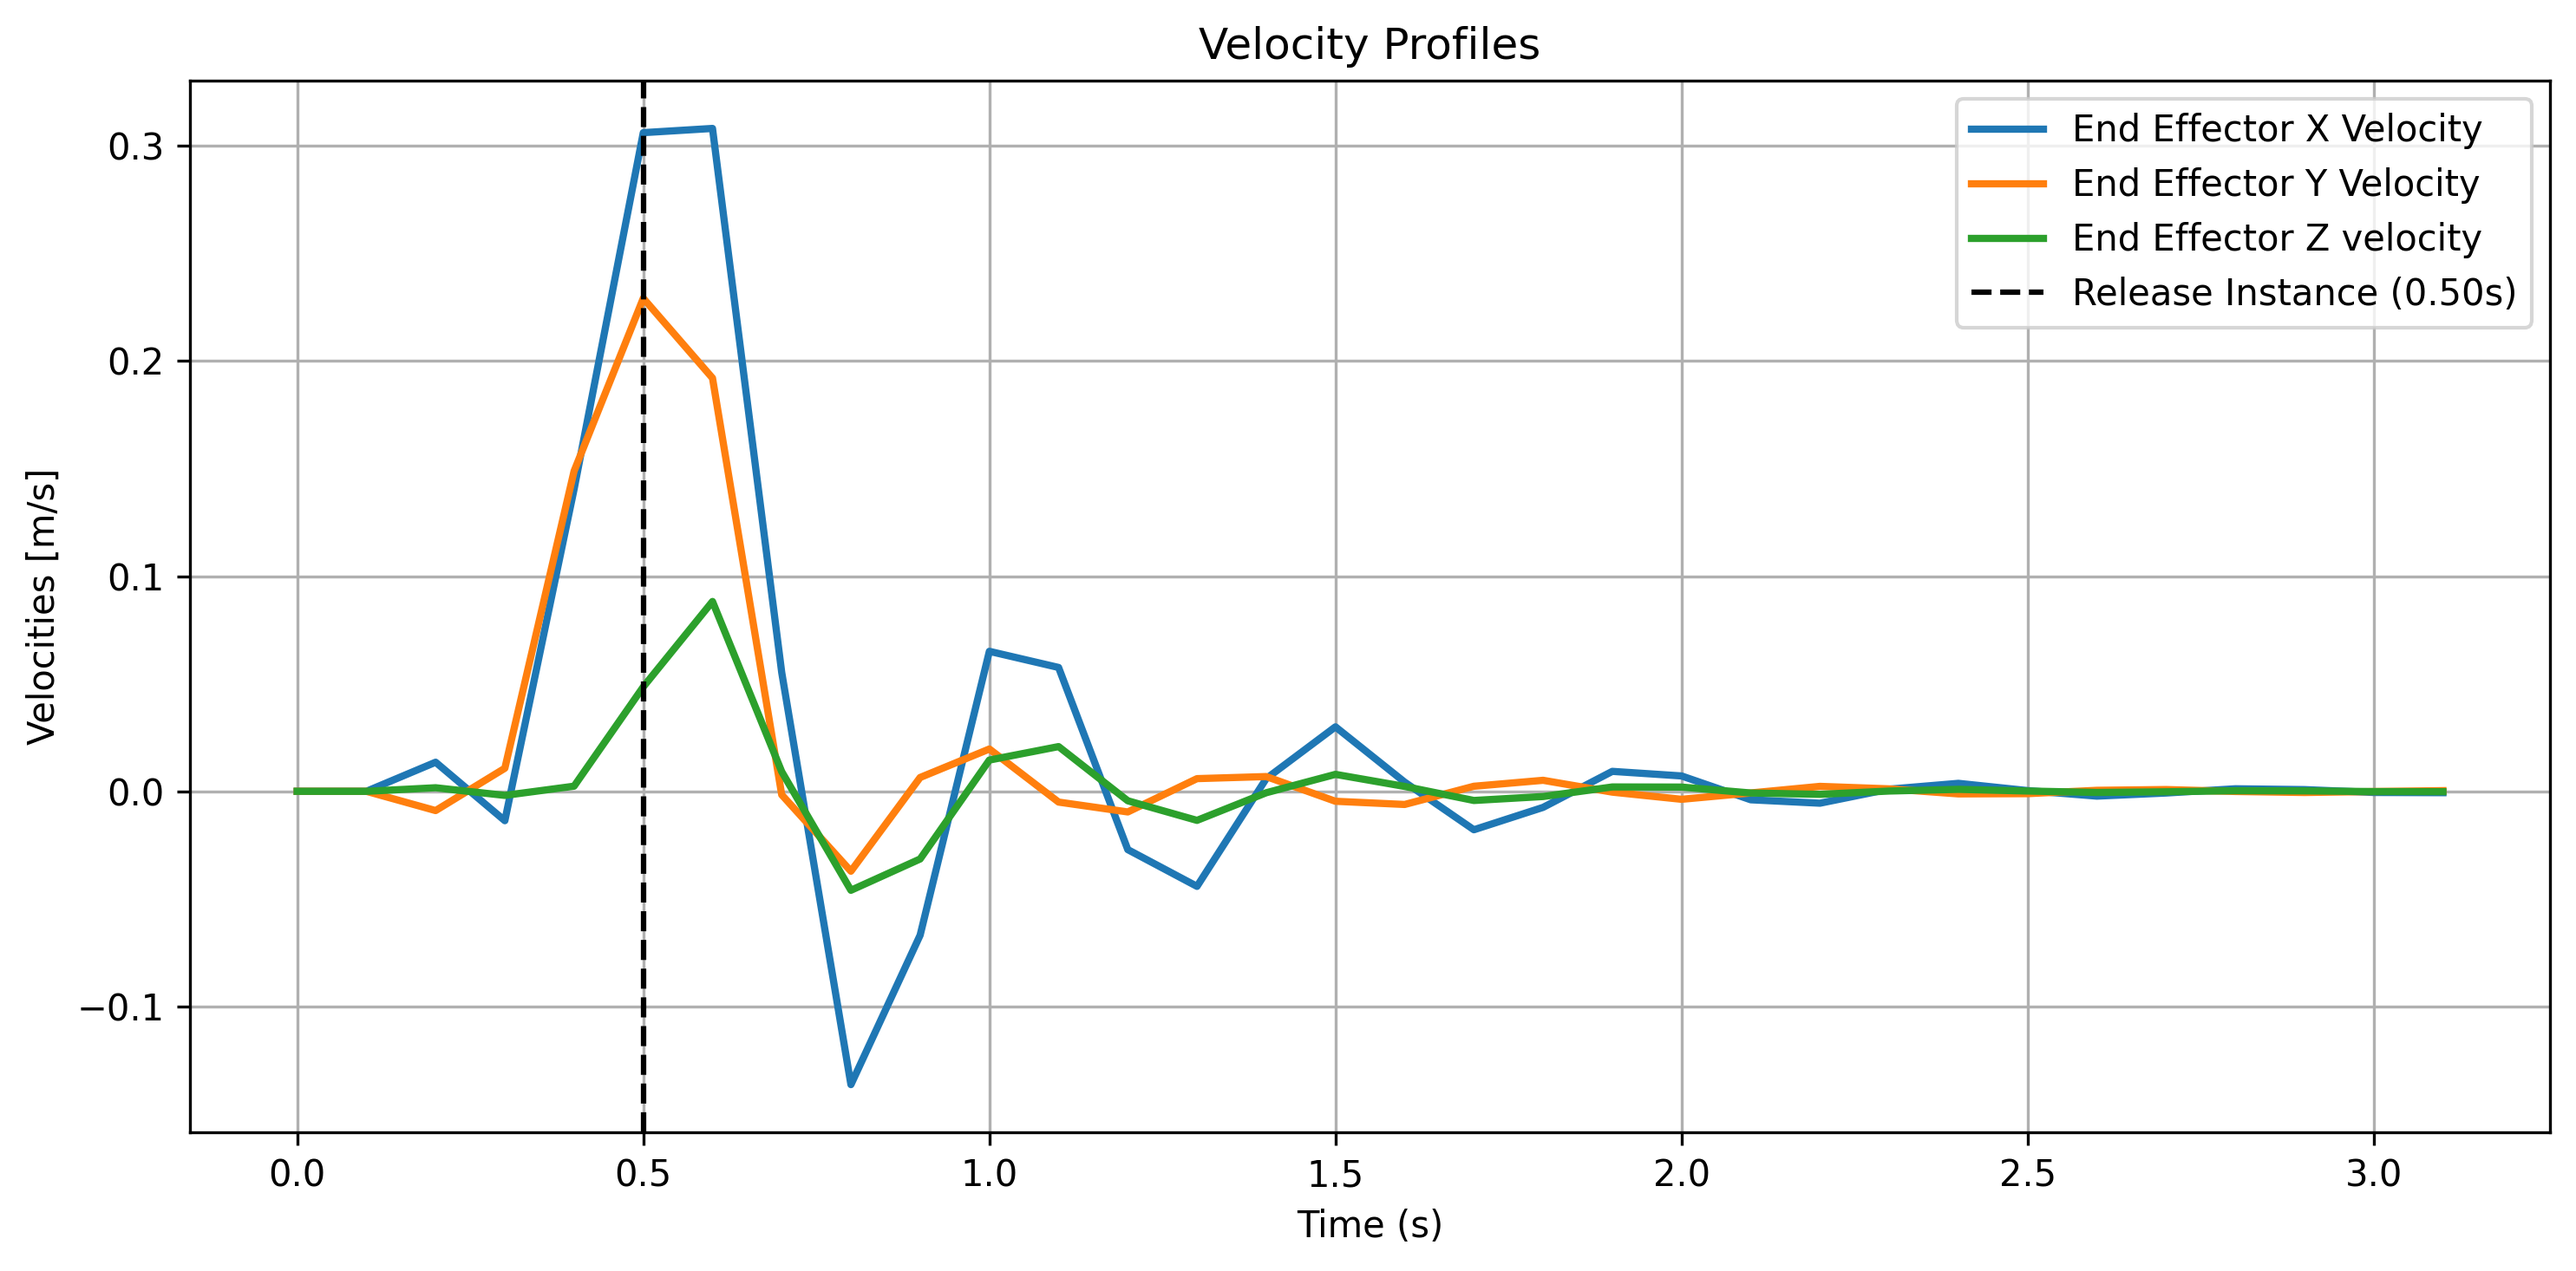
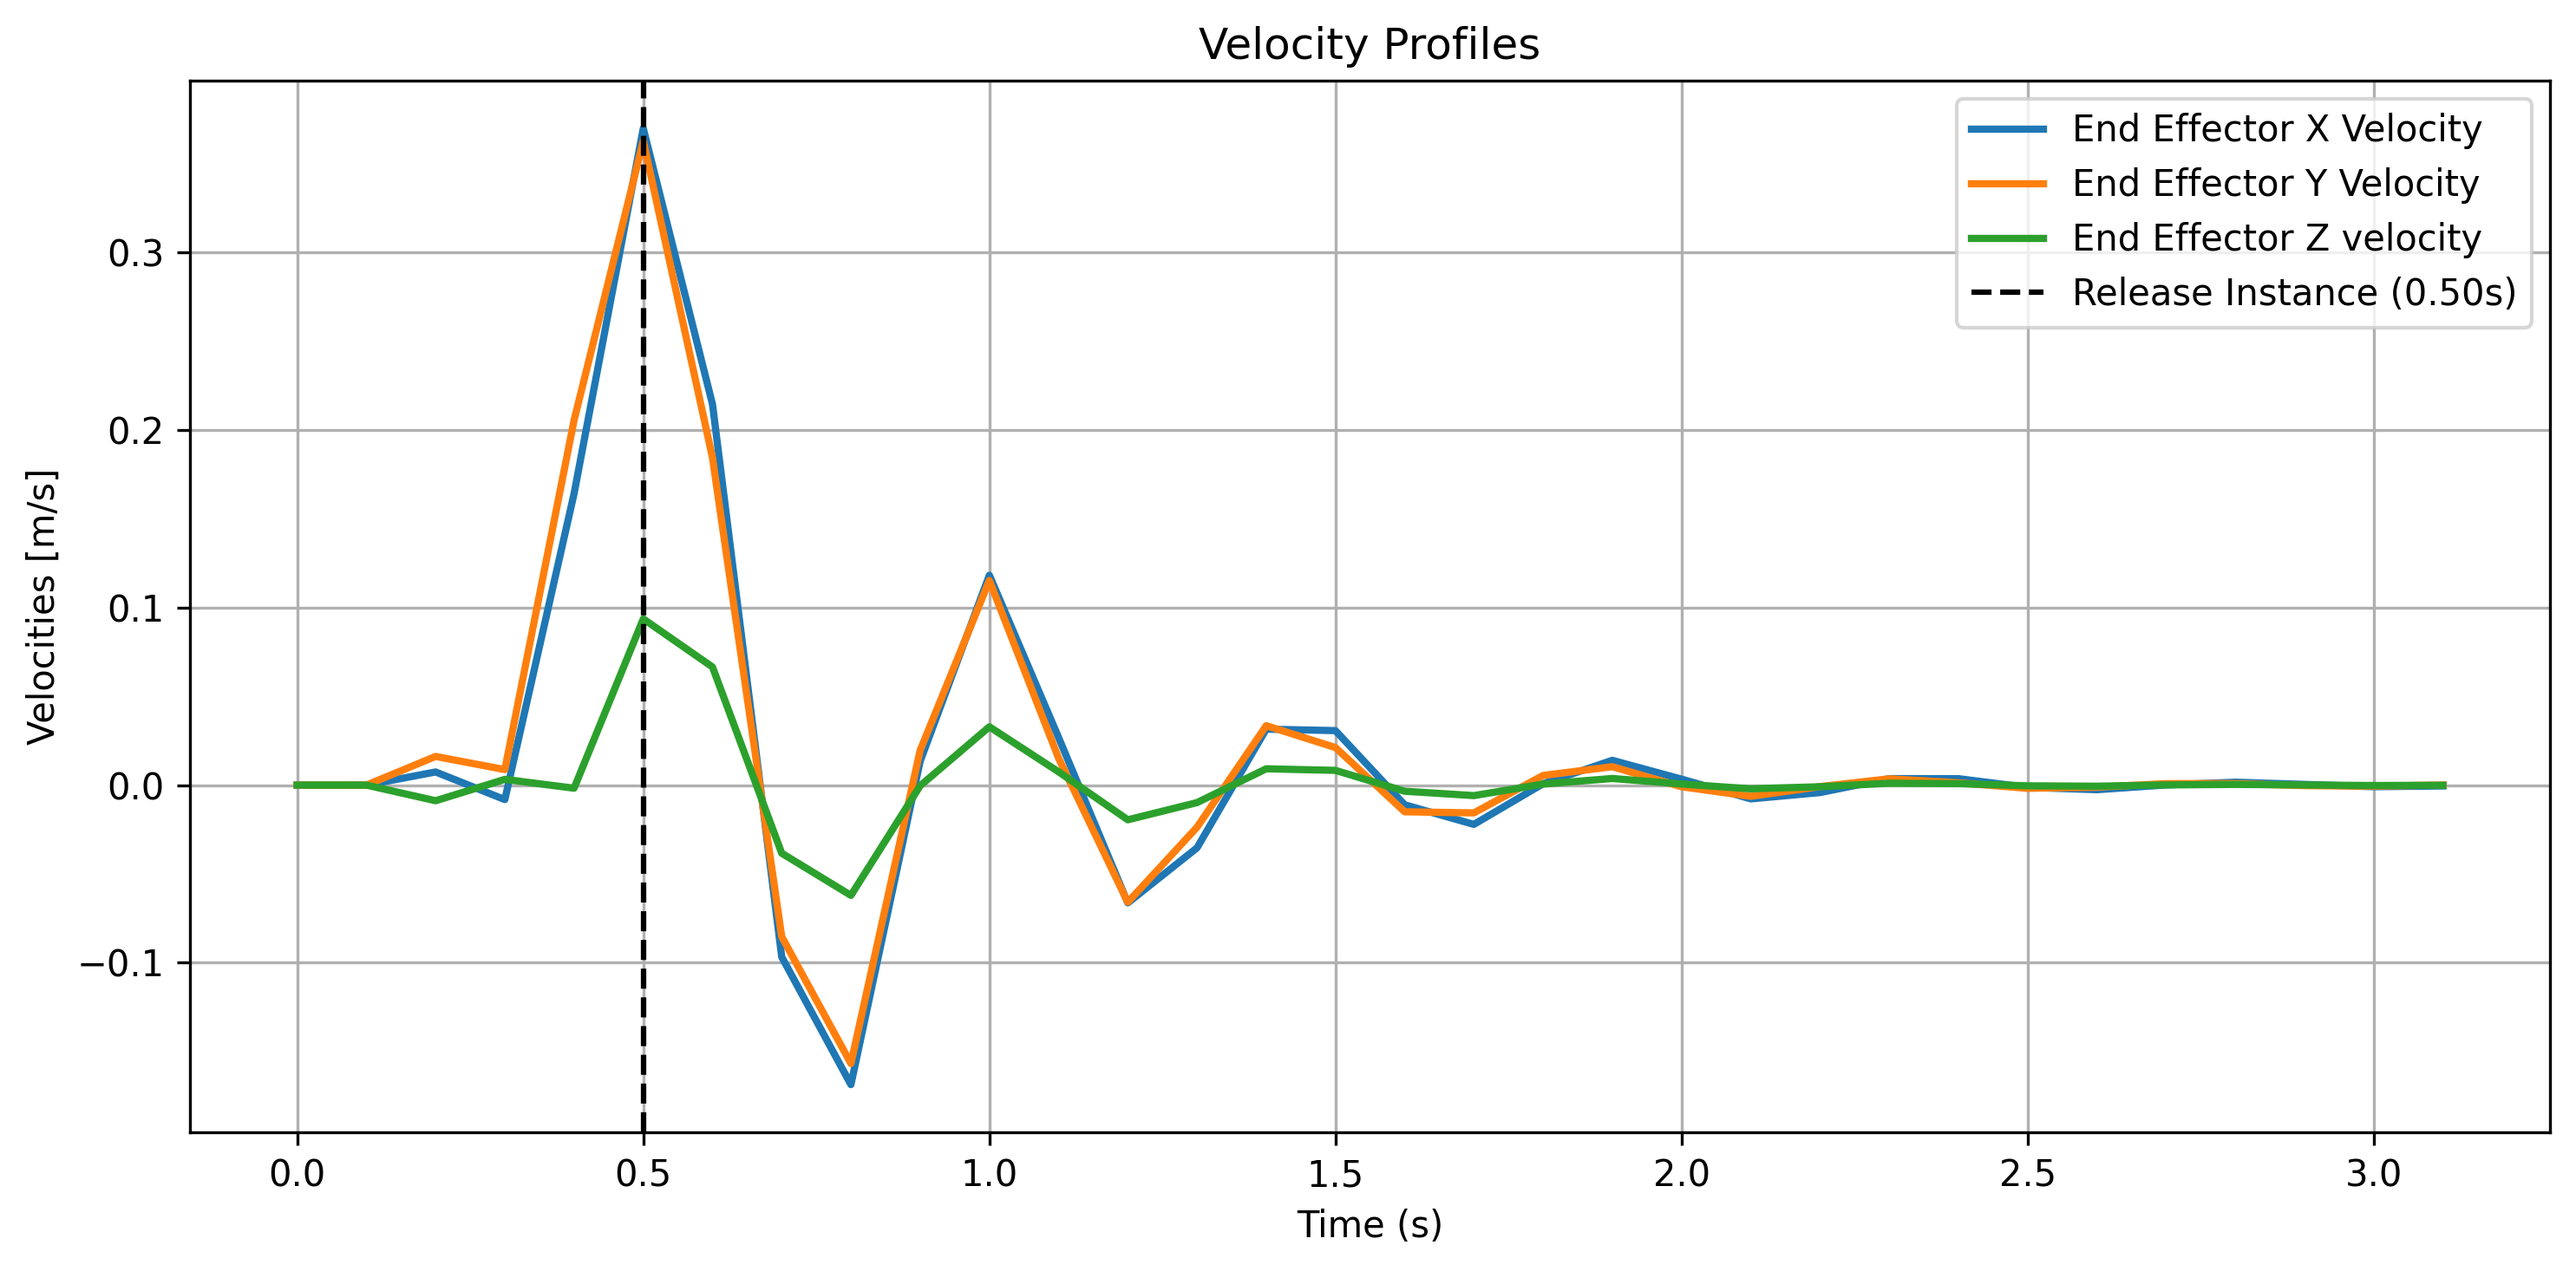
experiments

diff --git a/scripts/main_direct_throw.py b/scripts/main_direct_throw.py
@@ -57,7 +57,7 @@ dt = 0.1 # sampling time
 total_steps = int(tmax/dt) 
 z_g = -1 # structure height 
 g = 9.8 # gravity acceleration
-des_land_pos = [0.13, -0.13] # desired landing pose 
+des_land_pos = [0.20, 0.20] # desired landing pose 
 Q = 1 # landing pose weight term  
 n_trials = 1000 # number of trials
 
